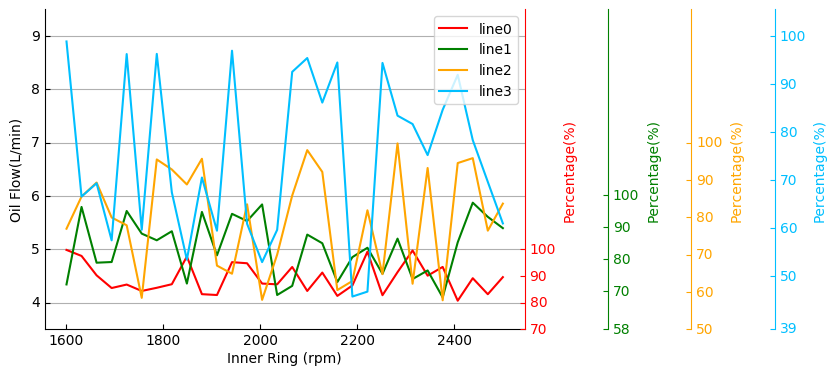
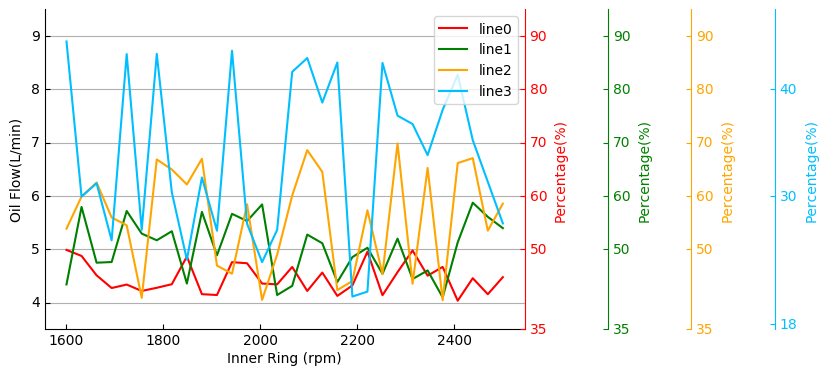
last commit

diff --git a/parasite_func.py b/parasite_func.py
@@ -56,7 +56,7 @@ def multi_parasite_axes(x, data, total):
         # ax_list[i].set_yticks(np.round(np.linspace(100 * min_level/total[i], 100, 5)))
         y_ticks = [100 * (min_level-0.5) / total[i]]
         for j in np.linspace(0, 100, 11):
-            if j > y_ticks[0] + 5:
+            if (j > y_ticks[0] + 5) and (j < 100 * (max_level+0.5)/total[i]):
                 y_ticks.append(j)
         ax_list[i].set_yticks(np.round(np.array(y_ticks)))
 
@@ -77,4 +77,4 @@ if __name__ == '__main__':
     arr_2 = list(rand_data[:][2] * 3 + 4)
     arr_3 = list(rand_data[:][3] * 5 + 4)
     rpms = np.linspace(1600, 2500, len(arr_0))
-    multi_parasite_axes(x=rpms, data=[arr_0, arr_1, arr_2, arr_3], total=[5, 6, 7, 9])
+    multi_parasite_axes(x=rpms, data=[arr_0, arr_1, arr_2, arr_3], total=[10, 10, 10, 20])
